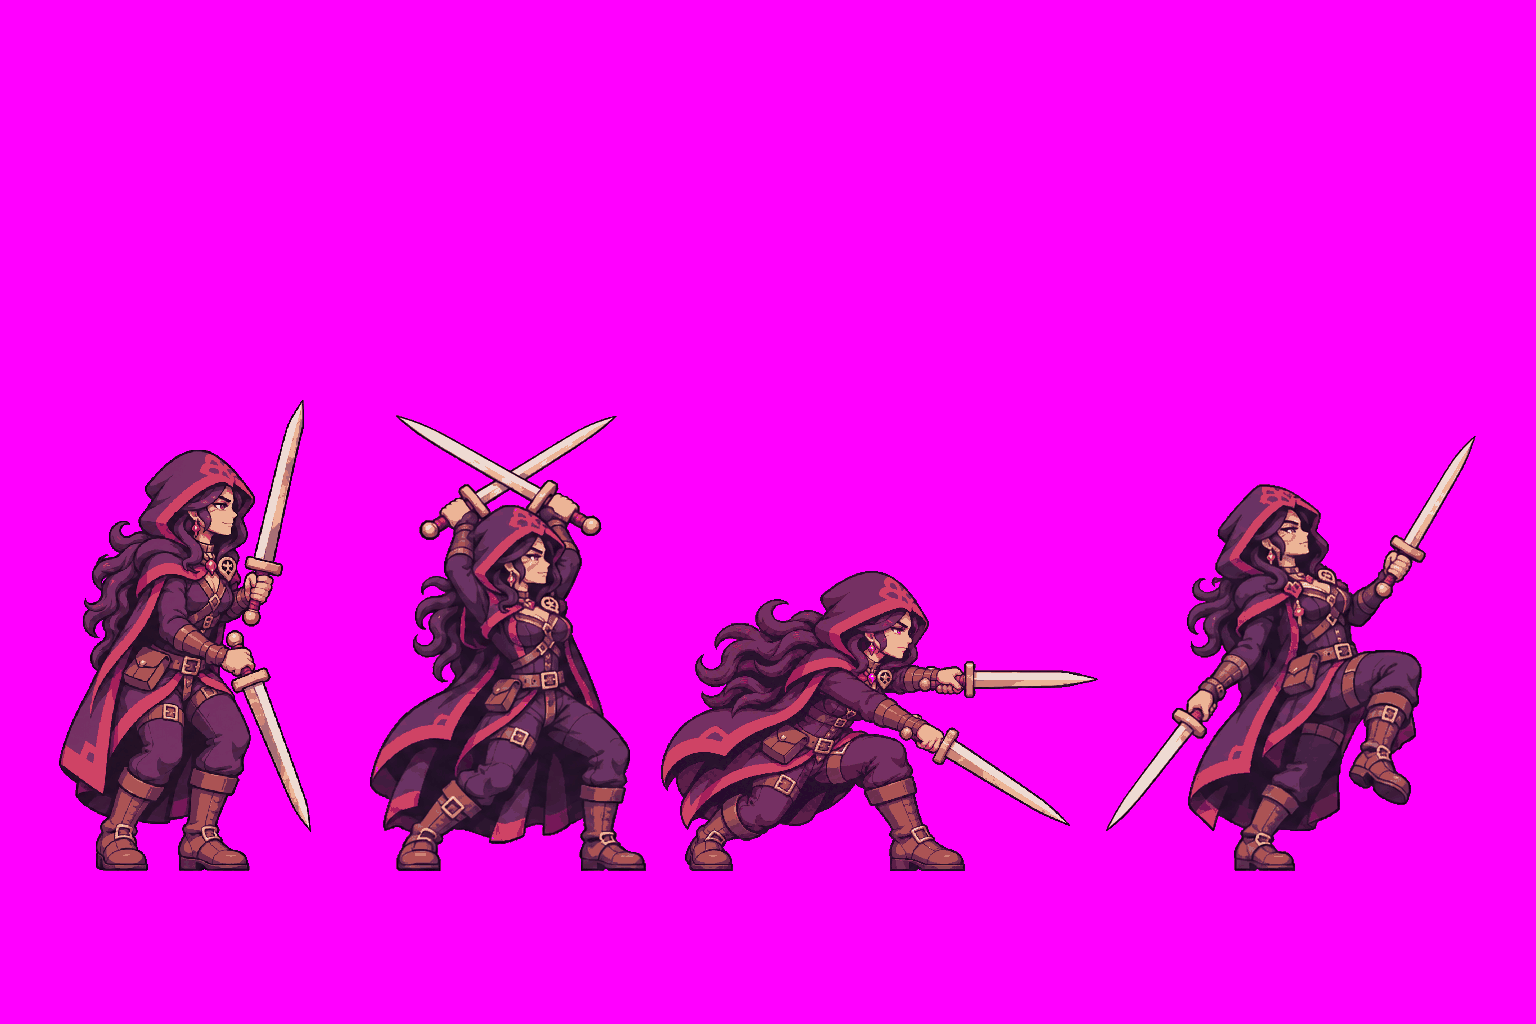
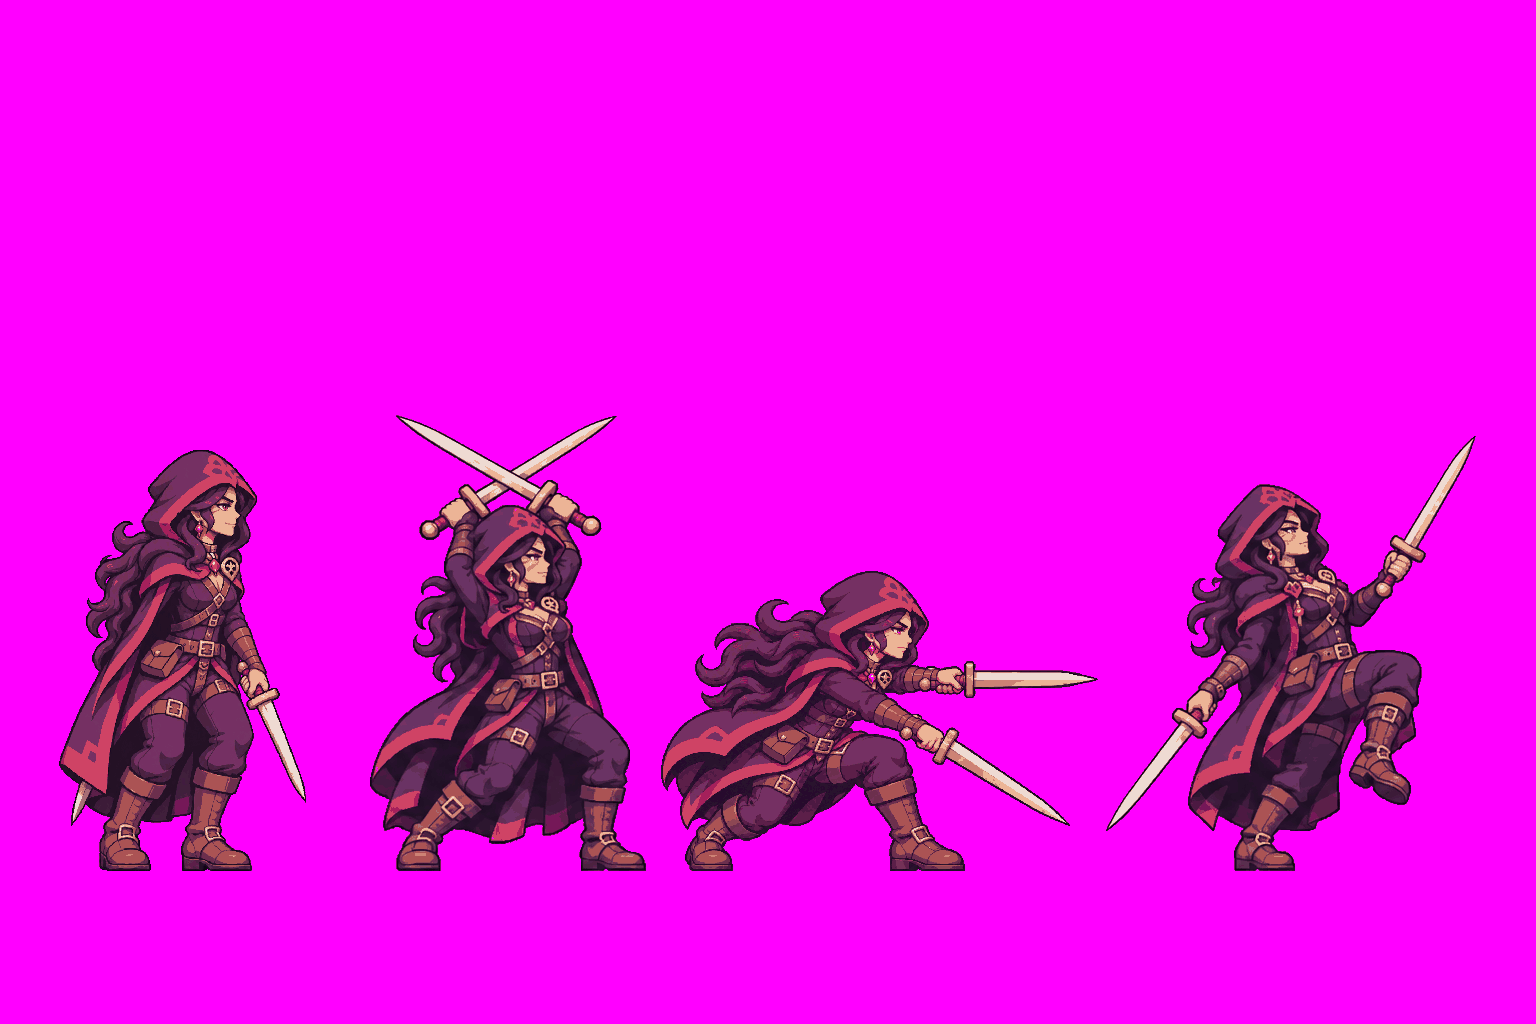
art: deliver Nikla lowered blades in idle battle sprite

Changed region(s): [[0.0312, 0.4062, 0.2188, 0.875]]

diff --git a/art/inbox/NOTES.md b/art/inbox/NOTES.md
@@ -529,3 +529,10 @@ REFERENCES LOADED: 쌍검 바탕 aa0687e OK; portrait_800.jpg OK; guide_strip.pn
 DEVIATIONS: (a) 3번만 낮은 돌진으로 교체. 위 칼은 가슴 높이에서 수평, 아래 칼은 사선으로 내려 두 끝 모두 앞발보다 오른쪽. 고정 포즈 구역에 맞춰 뒷다리는 앞뒤 원근으로 조금 겹쳐 보임. 1·2·4번은 각 연결 실루엣의 색·좌표·픽셀 마스크가 바탕과 일치. (b) none. (c) none.
 RISKS AT GAME SIZE: 낮게 숙인 타격의 실루엣은 66x46px(변환기가 낮은 자세로 인해 크기 차이 주의 출력). 두 날은 분리되고, 실제 전투에선 X에서 타격으로 넘어가는 골반 전진과 앞발 기준을 확인 부탁. --base의 사각 구간 집계는 3번이 구간 경계를 넘은 픽셀을 2번 구간에 포함하지만 기존 2번 그림 자체는 그대로.
 PROPOSALS: none.
+
+## sheet/captain/shadowqueen - 니클라 대기 자세
+CHECK: RESULT: PASS
+REFERENCES LOADED: 타격 승인본 0cc6046 OK; portrait_800.jpg OK; guide_strip.png OK; guide_1_idle.png, guide_2_windup.png, guide_3_strike.png, guide_4_hit.png OK; Baren anchor OK.
+DEVIATIONS: (a) 1번 대기만 두 칼을 내렸음. 가까운 칼은 몸 밖 앞으로 비스듬히, 먼 칼은 망토와 뒷다리 뒤 아래쪽 끝만 보이게 했음(THIS ROUND 예외). 대기 몸 419px(변환기 측정), y=870. --base 검사에서 2·3·4번 원본 실루엣/색 변화가 모두 0/0. (b) none. (c) none.
+RISKS AT GAME SIZE: 대기에서 먼 칼끝은 의도적으로 짧게 드러나 어두운 바닥에서 망토 밑단과 가까워 보일 수 있음. 대기→머리 위 X 준비가 매끄러운지 실제 전투에서 확인 부탁. 타격 높이 주의는 승인된 낮은 자세가 그대로라 재출력됨.
+PROPOSALS: none.
